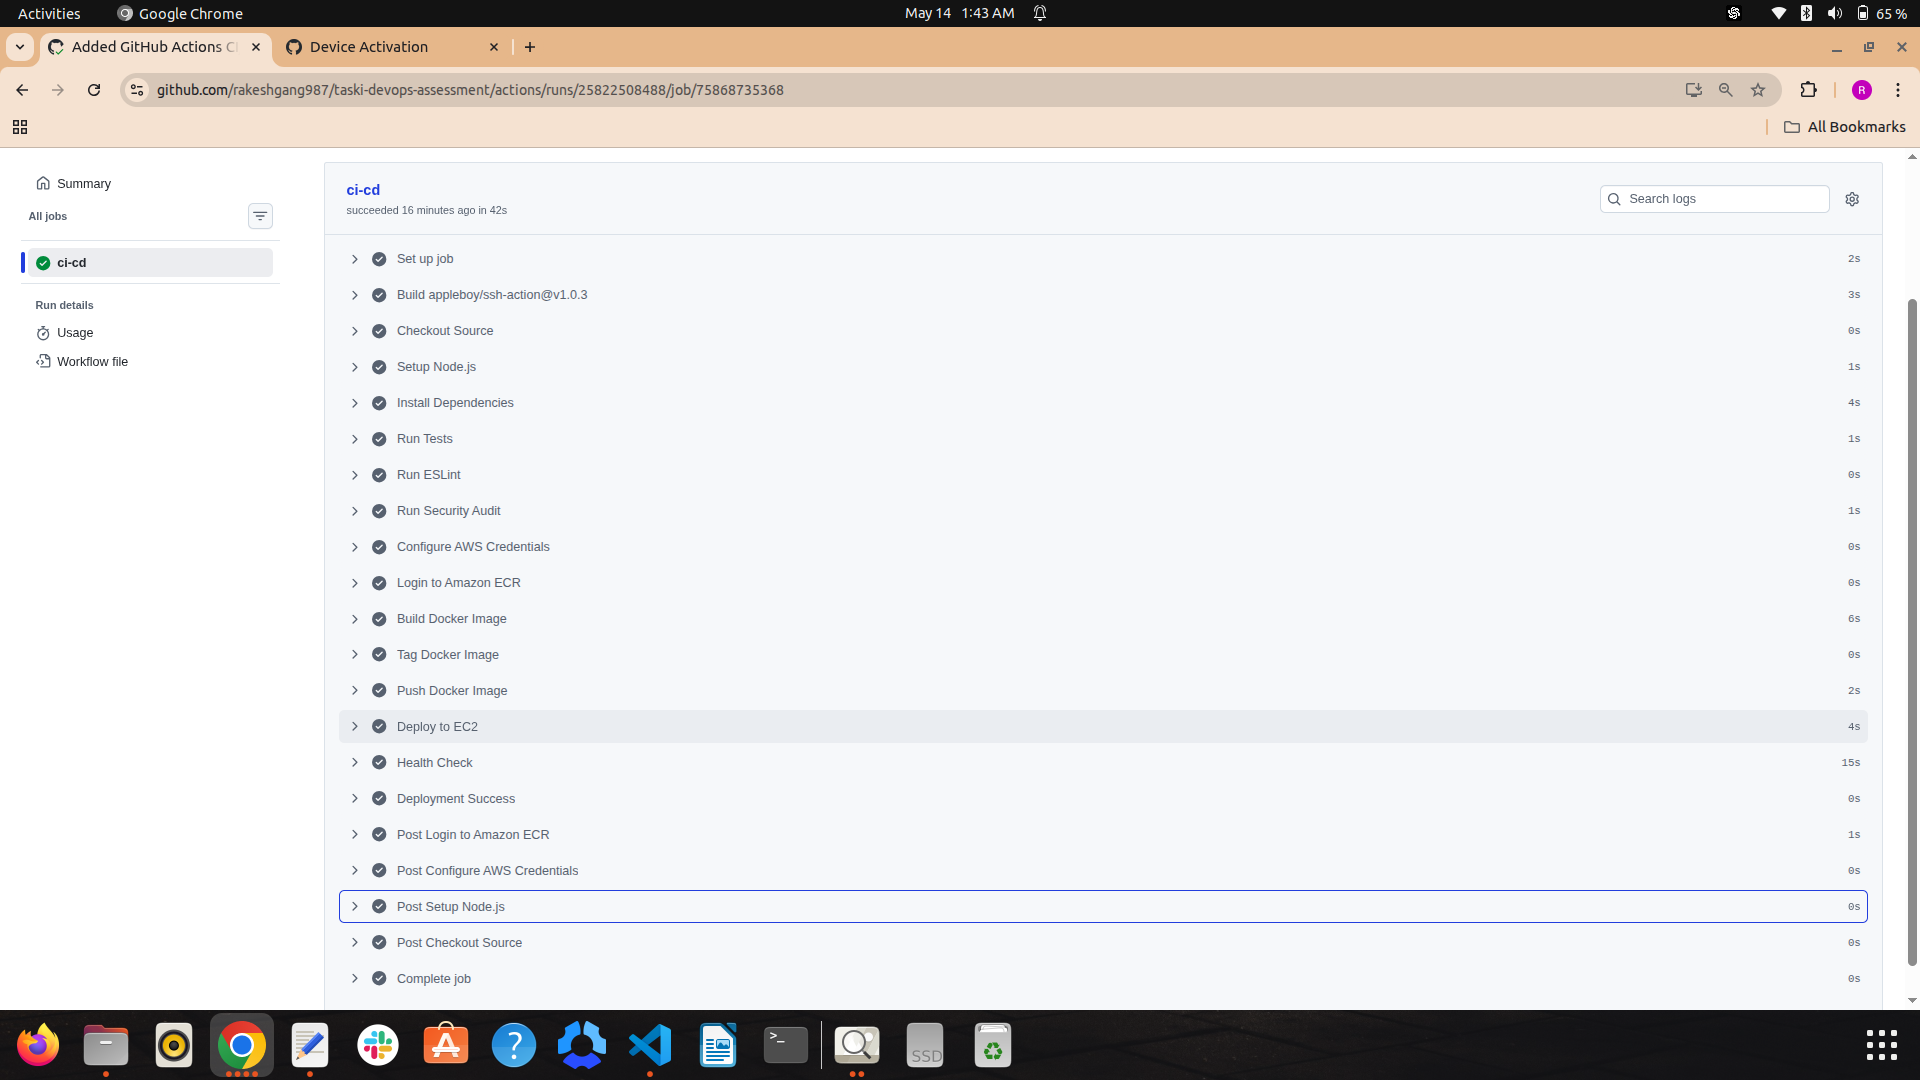
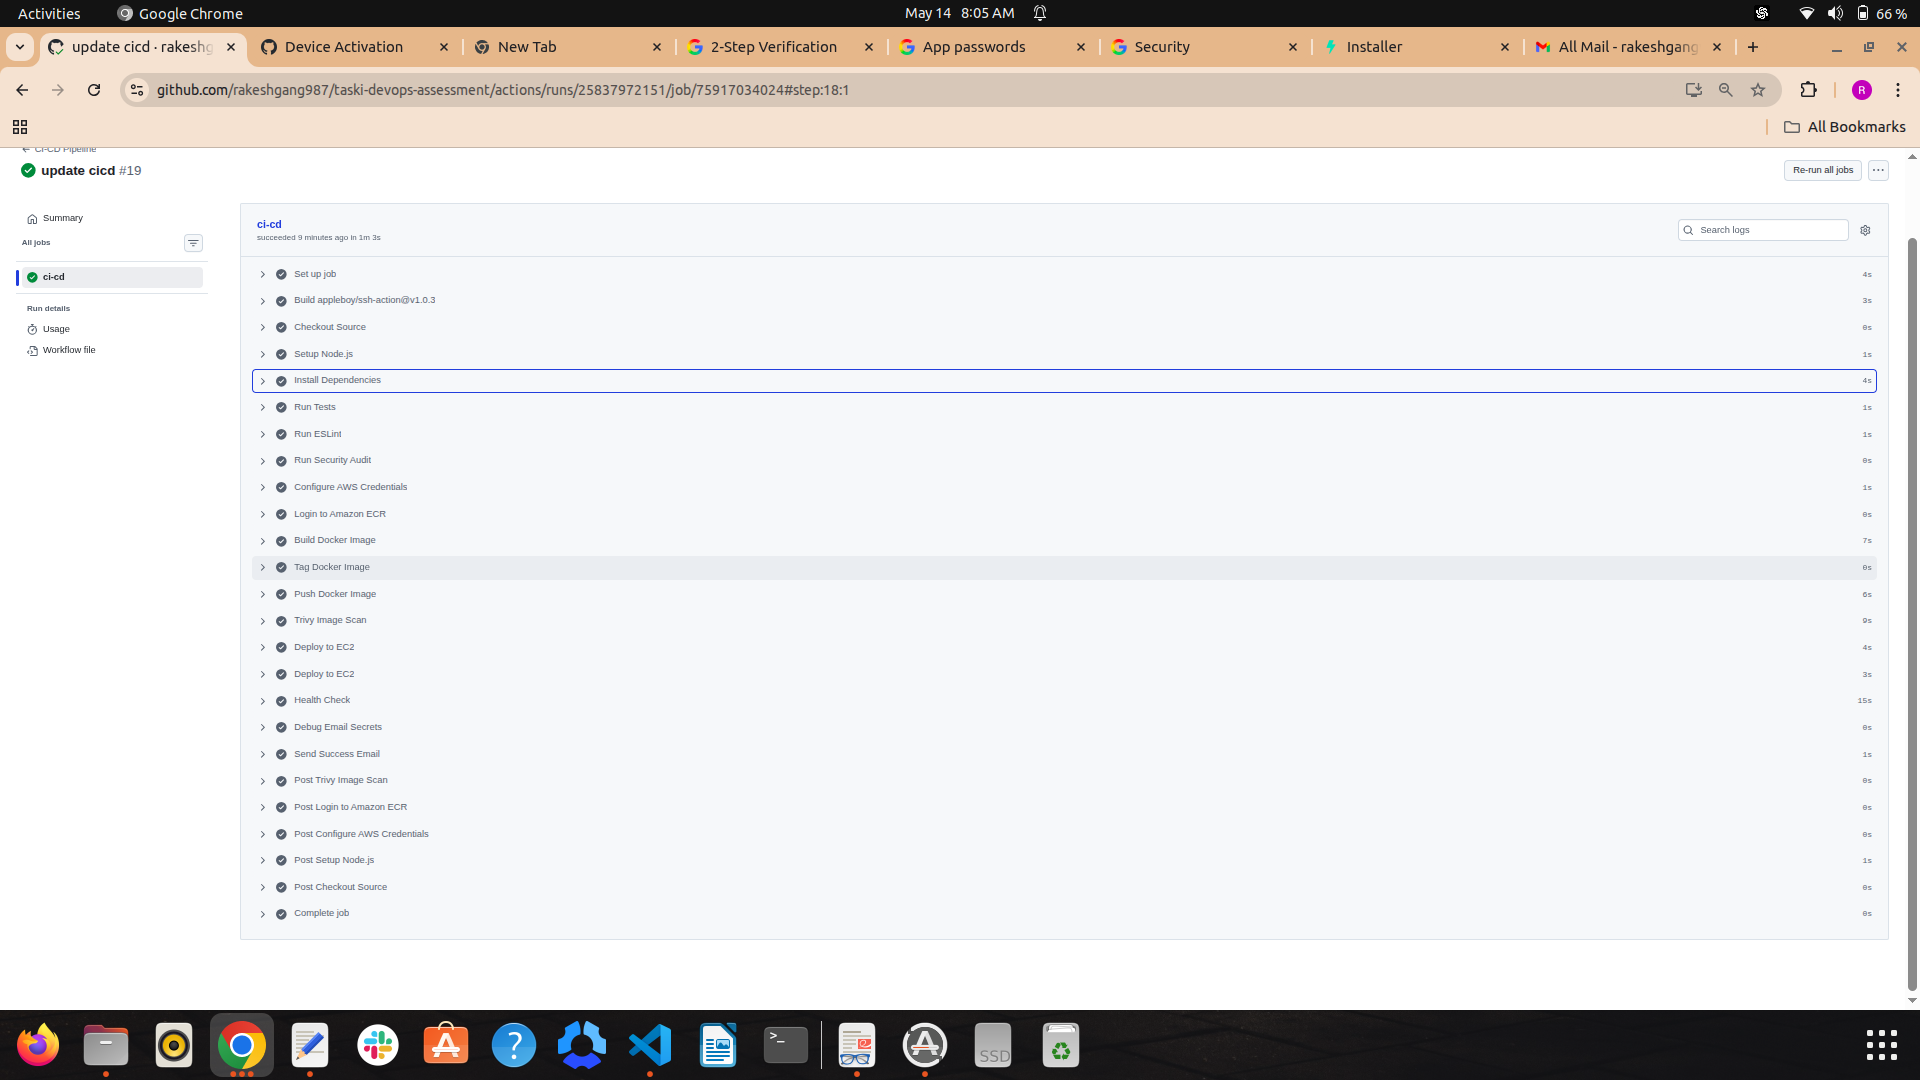
update readme

diff --git a/README.md b/README.md
@@ -401,6 +401,27 @@ The solution includes:
   <img src="docs/pipeline-success.png" />
 </p>
 
+
+---
+
+###  Application Running on EC2
+<p align="center">
+  <img src="docs/app-running.png" alt="App Running" width="800"/>
+</p>
+
+---
+
+###  Health Check
+<p align="center">
+  <img src="docs/health-check.png" alt="Health Check" width="800"/>
+</p>
+
+---
+
+###  Terraform Output
+<p align="center">
+  <img src="docs/terraform-output.png" alt="Terraform Output" width="800"/>
+</p>
 Potential production enhancements:
 
 * Kubernetes deployment
